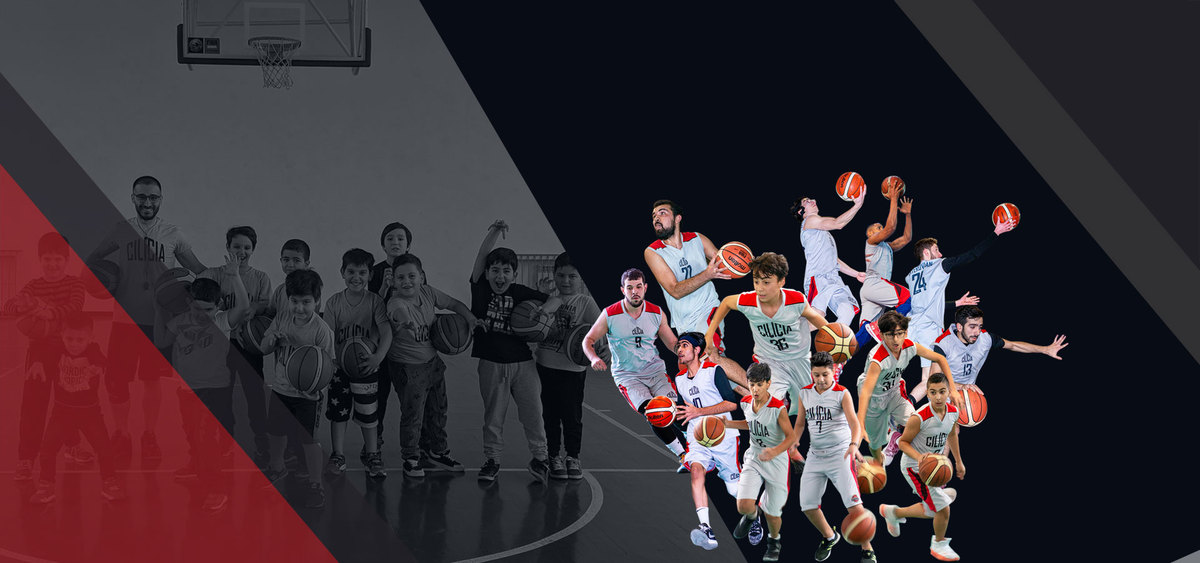
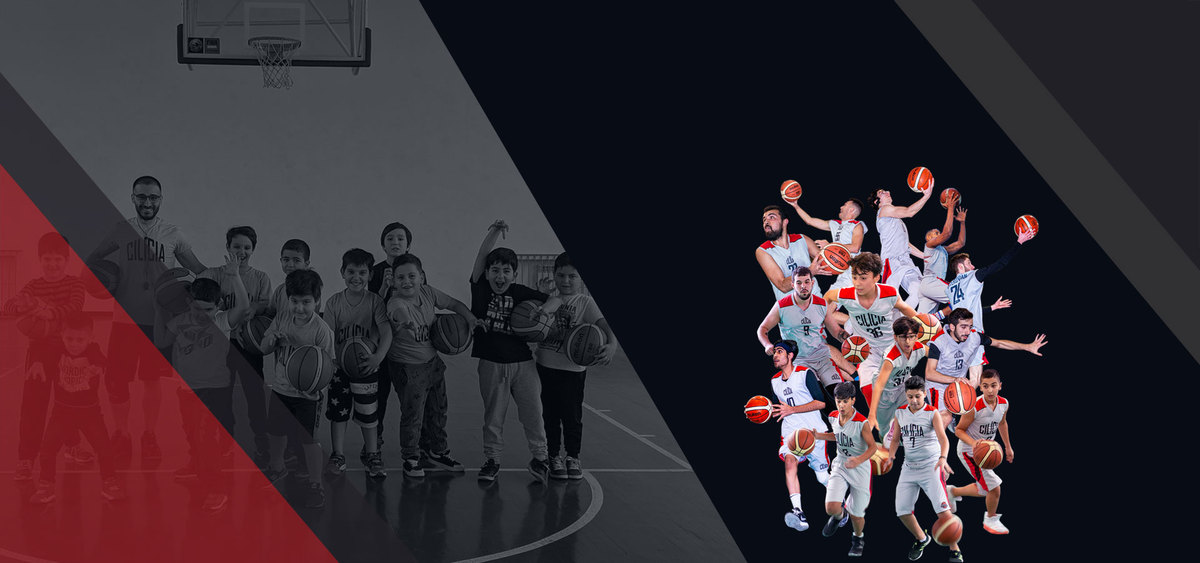
fix slider

Changed region(s): [[0.4625, 0.302, 0.8942, 1.0], [0.9558, 0.9663, 1.0, 1.0]]

diff --git a/resources/views/site/home/index.blade.php b/resources/views/site/home/index.blade.php
@@ -18,16 +18,6 @@
                         </div>
                     </div>
                 </div>
-                <div class="slider-item d-flex align-items-center" style="background: url('{{ asset("assets/site/images/home/h2.jpg") }}')">
-                    <div class="container m-auto">
-                        <div class="row">
-                            <div class="col-md-7">
-                                <p class="slider-title lg"><span class="red">Summer </span> School
-                                </p>
-                            </div>
-                        </div>
-                    </div>
-                </div>
             </div>
         </div>
     </div>
